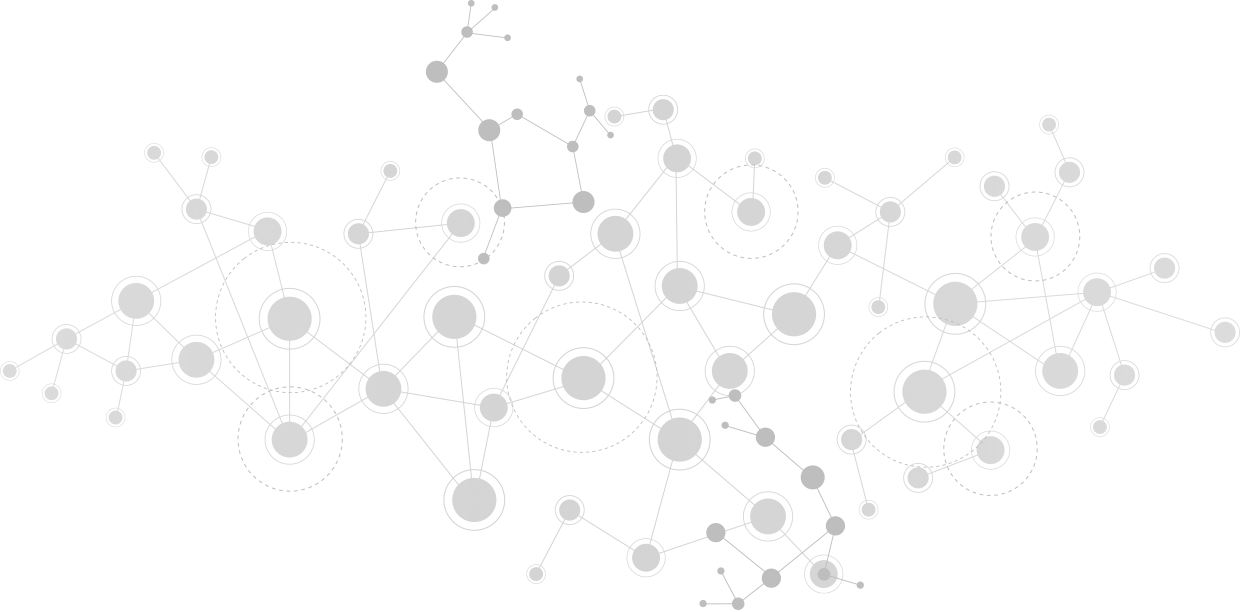
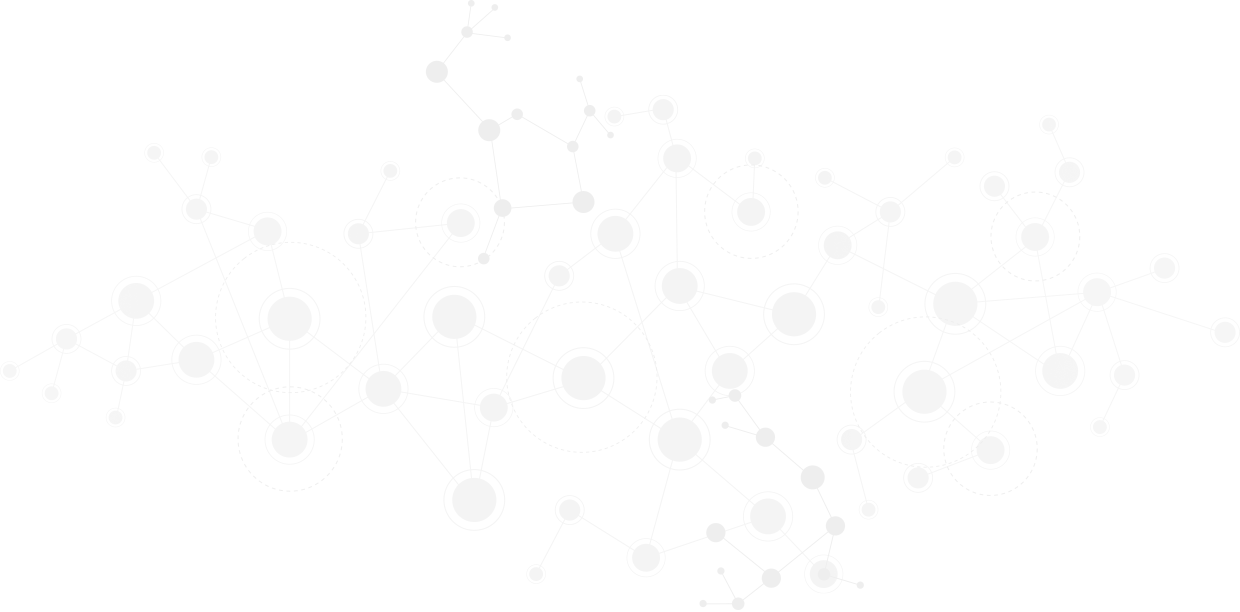
style updates. #9811

diff --git a/openscholar/themes/hwpi_onepage/flavors/peabody/peabody.css b/openscholar/themes/hwpi_onepage/flavors/peabody/peabody.css
@@ -55,7 +55,8 @@ h1#page-title {
 }
 
 .front #content-panels .region-content-first, .front #content-panels .region-content-bottom {
-background:url('images/fp-panel-bg.png?1234') repeat-y #f5f5f5;
+background:url('images/fp-panel-bg.png?m=15079274erererererr') repeat-x #f5f5f5;
+background-position:50%;
 }
 
 .region-header-third ul.nice-menu a,
